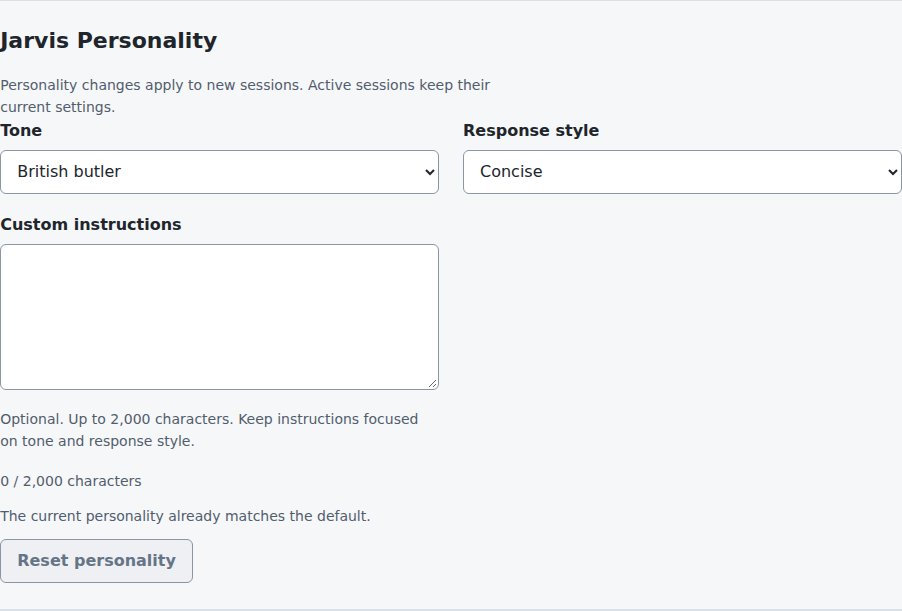
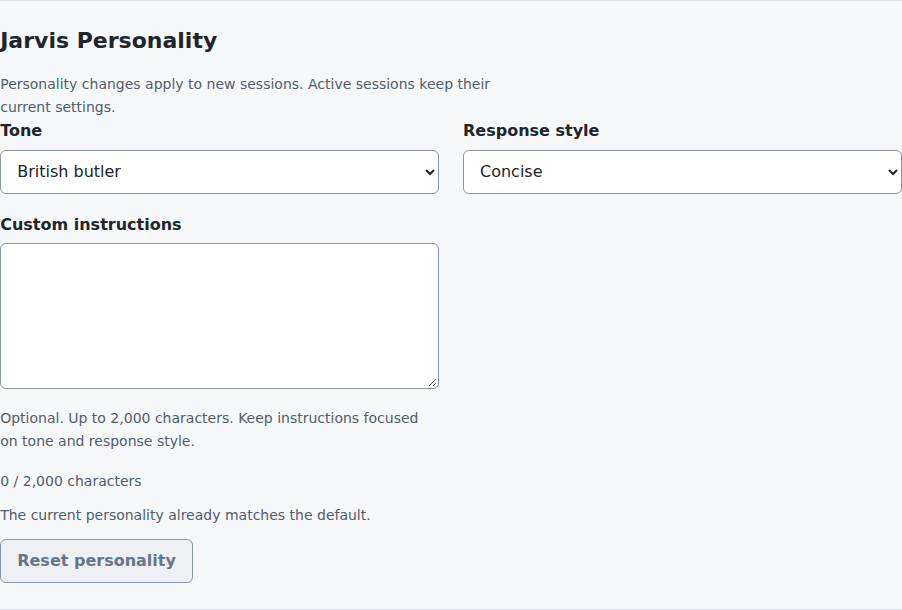
P8-19: Refresh merged settings screenshots

diff --git a/docs/features.md b/docs/features.md
@@ -163,7 +163,7 @@ This coverage is for backend-enabling requirements in [ui.md](../ui.md); shell c
 | Long-term memory | Recall preferences, decisions and unfinished work across sessions; inspect, correct and forget retained memories | Voice/chat | Existing conversation; dedicated management UI undecided | Planned (storage, capture and retention decisions open) | P7-13 |
 | Web research | Search and retrieve web sources, synthesise findings with links and show results through dynamic views | Both | Conversation and dynamic workspace | Planned (provider and cost decision open) | P7-14; existing P8-06/P8-14/P8-15 consumers |
 | Image and video generation | Generate visual assets, inspect truthful job status and view the resulting artifacts | Both | Conversation and dynamic workspace | Planned (providers, cost and retention decisions open) | P7-15; existing P8-06/P8-14/P8-15 consumers |
-| Editable personality | Configure tone/response style and custom instructions consistently for chat and voice; reset to the current default | Both | Settings → Jarvis → Personality | Built offline; live Azure behavior unverified | P7-16, P8-19 |
+| Editable personality | Set tone/response-style and custom-instruction defaults for new sessions; reset to the current default | Screen | Settings → Jarvis → Personality | Built offline; live Azure behavior unverified | P7-16, P8-19 |
 
 Dan accepted these features on 4 October 2026. No new provider or paid service
 was selected, and no implementation was started by this planning change. Notes

diff --git a/docs/agent-context.md b/docs/agent-context.md
@@ -317,12 +317,13 @@ the page had no horizontal overflow, selects measured 44 px, and only the table
 scrolls horizontally. The expected mocked 503 produced a browser network log;
 there were no other console errors or page exceptions. Live SQL and provider or
 voice usage remain unverified.
-P8-19 was inspected in Chromium at 1280×900 and 390×844 with scratch-only auth
-and `/settings` API mocks. Personality loaded, saved, recovered after a mocked
-HTTP 500 without losing edits, and reset to defaults; keyboard focus was visible,
-the page had no horizontal overflow, and interactive controls measured at least
-44 px. The expected mocked failure was the only browser console error. Screenshots
-are in `docs/ui/screenshots/p8-19-personality-{desktop,phone}.png`; live Entra and
+P8-19 was re-inspected alongside P8-13 Appearance in Chromium at 1280×900 and
+390×844 with scratch-only auth and `/settings` API mocks. Personality loaded,
+saved, recovered after a mocked HTTP 500 without losing edits, and reset to
+defaults; keyboard focus was visible, the page had no horizontal overflow, and
+interactive controls measured at least 44 px. The expected mocked failure was
+the only browser console error. Screenshots are in
+`docs/ui/screenshots/p8-19-personality-{desktop,phone}.png`; live Entra and
 Azure settings behavior remain unverified.
 Never commit the stub or weaken sign-in in the app.
 
